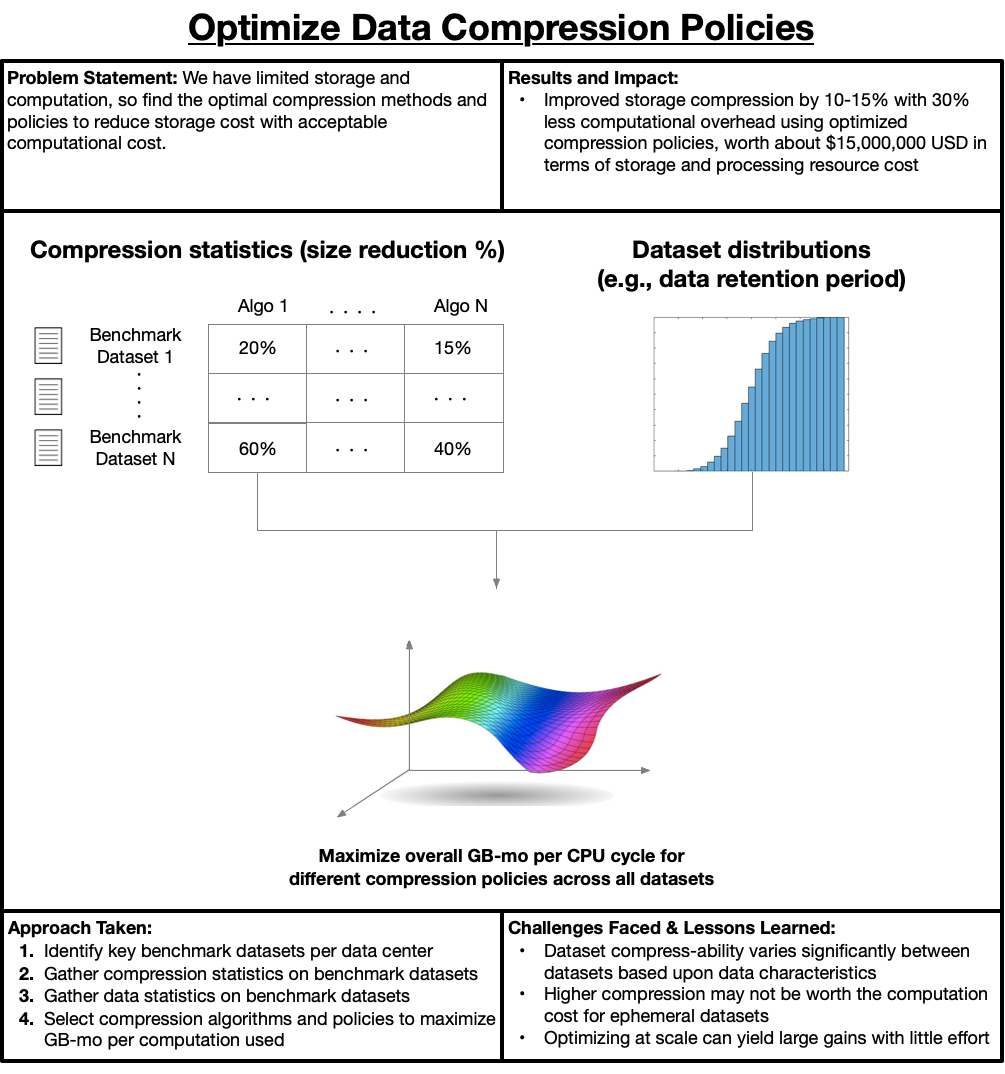
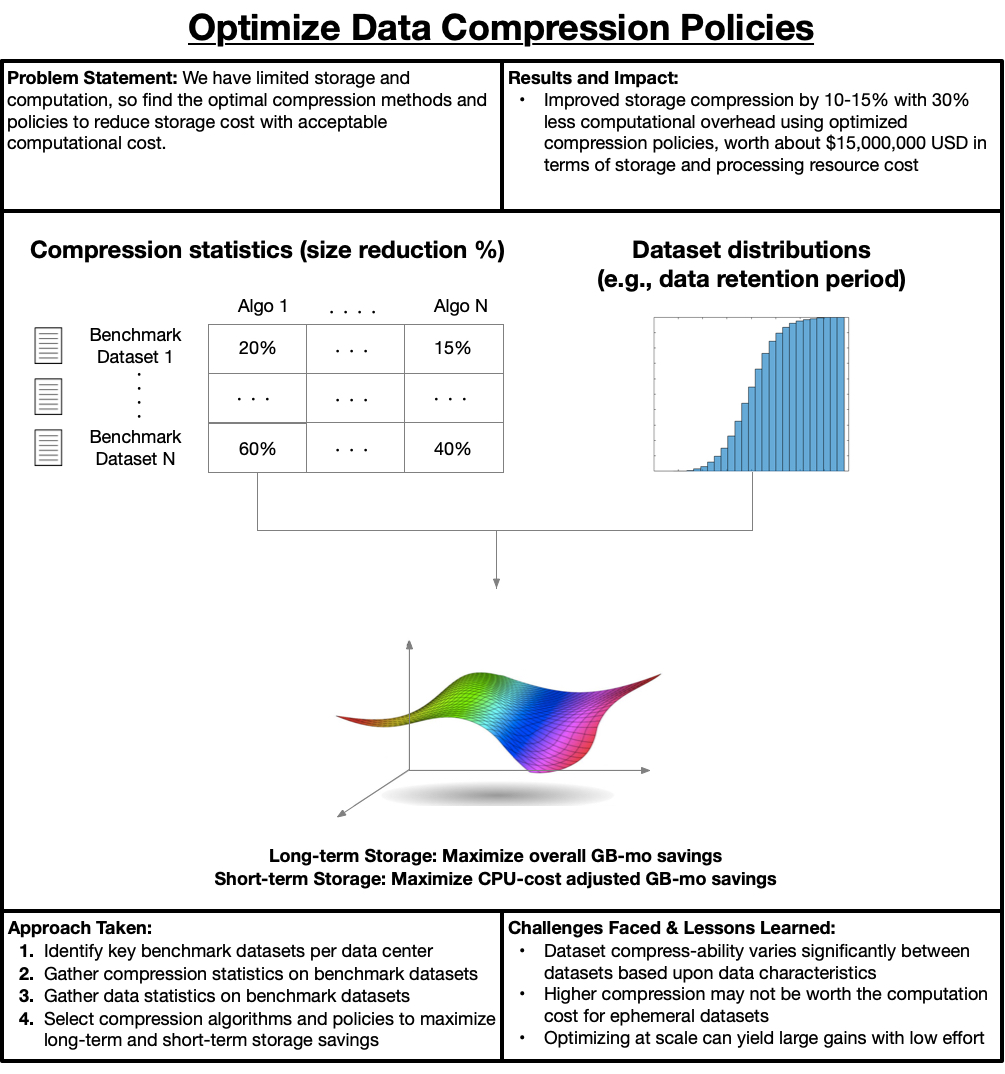
updating diagram

Changed region(s): [[0.2159, 0.7682, 0.7711, 0.8296], [0.0308, 0.9525, 0.3701, 0.9832], [0.8945, 0.9525, 0.9871, 0.9832]]

diff --git a/docs/health-assistant.md b/docs/health-assistant.md
@@ -7,7 +7,7 @@ filename: health-assistant.md
 #### @Accolade: Recommendation System for Health Assistants
 This project is a good example of what it takes to develop an intelligent service from the ground up. I had the fortunate privilege of defining, driving, and implementing the Data Science team's first production service, a Health Assistant Recommendation System. 
 
-Accolade's core business value-add comes from the engagement and relationship between Clients and Health Assistants. A Health Assistant efficiently and effectively navigates a Client through their healthcare experience, saving time and money while improving outcomes. As such, it is critical that the right Health Assistant be paired with the Client, as different Health Assistants have different expertise (e.g., some are Benefits experts, others are Clinicians, etc.). This Recommendation System's main goals were to improve Client outcomes while improving operating efficiency on Accolade's side. The metrics of choice to measure success for this were low-level operations metrics (e.g., Call Duration, Call Re-routes per Engagement) and high-level business metrics (e.g., Net Promoter Score). 
+Accolade's core business value-add comes from the engagement and relationship between Clients and Health Assistants. A Health Assistant efficiently and effectively navigates a Client through their healthcare experience, saving time and money while improving outcomes. As such, it is critical that the right Health Assistant be paired with the Client, as different Health Assistants have different expertise (e.g., some are Benefits experts, others are Clinicians, etc.). This Recommendation System's main goals were to improve Client outcomes while improving operating efficiency on Accolade's side. The metrics of choice to measure success for this were low-level operations metrics (e.g., Call Duration, Call Re-Routes per Engagement) and high-level business metrics (e.g., Net Promoter Score). 
 
 Bringing this service to life was particularly challenging for many reasons, mainly:
 
@@ -19,7 +19,7 @@ How does one bootstrap an intelligent service without data? You operate with rul
 
 In this case, 80% to 90% of the work for the initial model was simply getting the plumbing in place: setting up roles and permissions for services, service logging and alerting, configuring the service to log the correct data with the correct schema for future iterations, and so on. In the end, the initial model was a simple EC2 service that would run once per day to update Health Assistant assignments in a DynamoDB table.
 
-I left Accolade shortly deploying this service so I didn't get to see further iterations on this, but the plan, at the time, was to evaluate the existing model's performance against key metrics (e.g., Call Duration) alongside new models, and switch over to a new intelligent model once a statistically significant improvement was achieved. It is essential to use statistical testing and execute it correctly because small sample sizes or analyzing populations incorrectly can mislead one to think a model is better when it is actually worse. The statistical test is the compass to determine whether were heading in the right direction.
+I left Accolade shortly after deploying this service so I didn't see further iterations beyond the initial model. At the time, the plan was to evaluate the existing model's performance against key metrics (e.g., Call Duration) alongside new models, and switch over to a new intelligent model once a statistically significant improvement was achieved. It is essential to use and conduct statistical testing correctly because small sample sizes or heterogenous populations can be misleading. A seemingly better model may actually be worse. The statistical test is the compass to determine whether we're heading in the right direction.
 
 ![Accolade Recommendation System](https://github.com/RicardoFrankBarrera/Professional-Portfolio/blob/main/Project%20one-pagers/06%20Health%20Assistant%20Recommendation%20System.jpg?raw=true)
 

diff --git a/docs/markov-model.md b/docs/markov-model.md
@@ -12,7 +12,7 @@ For background, Microsoft's Big Data system is named [Cosmos](http://vldb.org/pv
 
 My task was to recreate the same study done at [Google](https://storage.googleapis.com/pub-tools-public-publication-data/pdf/36737.pdf) (click for the whitepaper) for our system. In short, Google aggregated a lot of system log data, analyzed it, and pushed it through a Markov Model to predict data durability (how often data would be lost) and availability (how often data was accessible).
 
-The Markov Model's assumptions don't fit reality because a Markov Model assumes event independence, but we know that hardware fails are correlated; a machine that has failed before is more likely to fail again. I believe there is a relevant quote for every occasion including this one, courtesy of George Box: "All models are wrong, but some are useful." This model turned out to be very useful.
+The Markov Model's assumptions don't fit reality because a Markov Model assumes event independence, but we know that hardware fails are correlated; a machine that has failed before is more likely to fail again. I believe there is a relevant quote for every occasion including this one, courtesy of George Box: "All models are wrong, but some are useful." Despite being wrong, this model turned out to be very useful.
 
 Creating this model proved to be challenging for various reasons:
 
@@ -27,6 +27,8 @@ The benefits of effectively modeling the system for this narrow goal were surpri
 2. Reduce customer service outages due to capacity management issues,
 3. Advise on network topologies and bandwidth requirements for data centers,
 4. Evaluate the pros/cons of other replication schemes (e.g., Erasure Encoding)
+
+It's impressive how many unintended benefits and use-cases come up from simple models.
 
 ![Markov](https://github.com/RicardoFrankBarrera/Professional-Portfolio/blob/main/Project%20one-pagers/01%20Storage%20Markov%20Model.jpg?raw=true)
 

diff --git a/docs/compression.md b/docs/compression.md
@@ -10,7 +10,7 @@ After my success with the Markov Model, I became the go-to mathematician on the 
 
 A data-center has resources (e.g., storage, computation, network, etc.) but these resources are not independent when executing tasks. If I'm writing data to a distributed storage system, I'm consuming a bit of every resource along the way: disk space to store files, memory to store data sent over the network, network to transfer data, and compute to orchestrate and execute everything.
 
-So, when your boss puts you in charge of saving storage space by compressing data more intelligently, it's implied that it shouldn't come at a cost to other resources. In this case, I needed to make sure we didn't use too much computation for the extra storage savings. This led us to focus on optimizing the metric: GB-mo per CPU cycle.
+So, when your boss puts you in charge of saving storage space by compressing data more intelligently, it's implied that it shouldn't come at a cost to other resources. In this case, I needed to make sure we didn't use too much computation for the extra storage savings. So, we evaluated each algorithm based upon absolute compression gains and normalized compression gains (GB-month per CPU cycle). Some algorithms that compressed better but were more compute intensive would be used for long-lived archival data, whereas less compressed but compute efficient algorithms were used for short-lived data.
 
 It is important to note that different datasets have different compressibility, and I needed to identify a way to estimate compression gains for an Exabyte of data for different policies without compressing an Exabyte of data. This was done by intelligently identifying and sampling key datasets that consumed the majority of the storage space in the data centers.
 

diff --git a/docs/real-estate.md b/docs/real-estate.md
@@ -59,7 +59,7 @@ The initial user experience was actually quite nice, as the user simply put in a
 Once I had the MVP developed, I worked on getting answers to key questions, for example:
 
 1. Who were the customers?
-2. What are each customer's needs and what scenarios are missing or gaps exist?
+2. What are each customer's needs, what scenarios are entirely missing, etc.?
 3. What revenue models would make sense for each customer / scenario?
 4. How should I go about getting early adopters?
 
